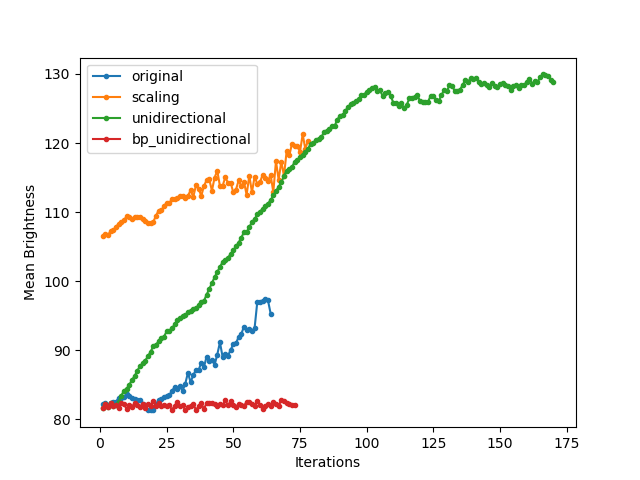
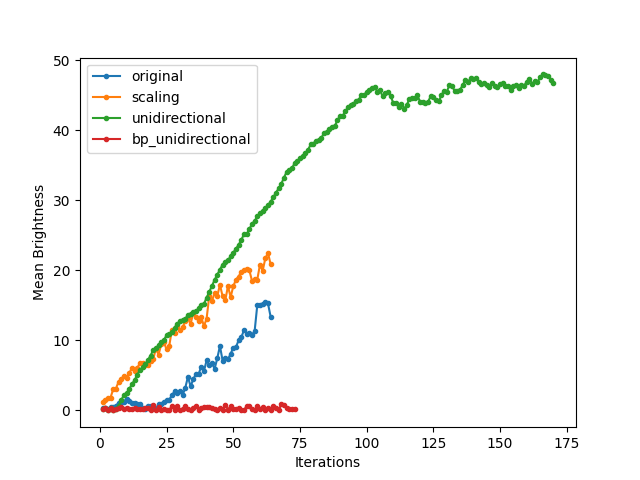
brief description on scaling

diff --git a/scaling_embed.py b/scaling_embed.py
@@ -8,8 +8,8 @@ from measure import Measure
 from shared import *
 
 
-def get_is_rounded(og, processed):
-    processed_pixels_temp = processed / (np.max(processed) / (original_max - original_min))
+def get_is_rounded(og, processed, factor):
+    processed_pixels_temp = processed / factor
     processed_pixels_temp += EPS
     processed_pixels_temp = np.floor(processed_pixels_temp)
     return processed_pixels_temp + original_min - og
@@ -30,9 +30,9 @@ def preprocess():
     processed_pixels -= EPS
     processed_pixels = np.ceil(processed_pixels)
 
-    mapped_values = get_mapped_values(shifted_max, scaled_max)
+    mapped_values = get_mapped_values(MAX_PIXEL_VALUE, scaled_max)
 
-    is_rounded = get_is_rounded(processed_pixels_og, processed_pixels)[np.in1d(processed_pixels, mapped_values)]
+    is_rounded = get_is_rounded(processed_pixels_og, processed_pixels, scale_factor)[np.in1d(processed_pixels, mapped_values)]
     is_rounded = is_rounded.astype(np.bool)
 
     processed_pixels = processed_pixels.astype(np.uint8)

diff --git a/shared.py b/shared.py
@@ -3,6 +3,8 @@ import lzma
 import PIL.Image as Image
 import numpy as np
 
+import matplotlib.pyplot as plt
+
 COMPRESSED_DATA_LENGTH_BITS = 16
 MAX_PIXEL_VALUE = 255
 COMPRESSION_LEVEL = 9
@@ -75,7 +77,7 @@ def decompress(compressed_data_bits):
 
 
 def get_header_and_body(image: np.ndarray, header_size=HEADER_SIZE) -> (np.ndarray, np.ndarray):
-    image = image.ravel()
+    image = image.ravel().copy()
     return image[:header_size], image[header_size:]
 
 
@@ -104,3 +106,14 @@ def read_image(path):
 def get_peaks(pixels, n=2):
     hist = np.bincount(pixels)
     return np.sort(hist.argsort()[-n:])
+
+
+def show_hist(image):
+    bins = np.bincount(image.ravel())
+    hist = np.zeros((MAX_PIXEL_VALUE + 1, ))
+    hist[:len(bins)] = bins
+    plt.figure()
+    plt.xlabel('Intensity Value')
+    plt.ylabel('Count')
+    plt.hist(np.arange(MAX_PIXEL_VALUE + 1), MAX_PIXEL_VALUE + 1, weights=hist)
+    plt.show()

diff --git a/stats.py b/stats.py
@@ -81,7 +81,7 @@ for rdh in RDH_ALGORITHMS:
             print(round(hidden_data_size / original_image.size, 3), 'bit/pixel')
             algorithm_rations.append(hidden_data_size / original_image.size)
             algorithm_stds.append(np.std(processed_image, dtype=np.float64))
-            algorithm_means.append(np.mean(processed_image, dtype=np.float64))
+            algorithm_means.append(np.abs(np.mean(original_image) - np.mean(processed_image, dtype=np.float64)))
             algorithm_ssids.append(structural_similarity(original_image, processed_image))
         else:
             print('extraction failed')

diff --git a/scaling_extract.py b/scaling_extract.py
@@ -59,10 +59,10 @@ def recover_image():
     processed_pixels = processed_pixels.astype(np.float64)
     processed_pixels -= iterations
     shifted_max = original_max - original_min
-    scaled_max = np.max(processed_pixels)
-    scale_factor = scaled_max / shifted_max
+    scaled_max = MAX_PIXEL_VALUE - 2 * iterations
+    scale_factor = scaled_max / MAX_PIXEL_VALUE
 
-    mapped_values = get_mapped_values(shifted_max, scaled_max)
+    mapped_values = get_mapped_values(MAX_PIXEL_VALUE, scaled_max)
     mapped_values = np.in1d(processed_pixels, mapped_values)
 
     processed_pixels /= scale_factor

diff --git a/original_embed.py b/original_embed.py
@@ -84,8 +84,8 @@ def write_image():
 
 def main():
     global header_pixels, processed_pixels, binary_data_index, binary_data, peaks
-    header_pixels = cover_image.ravel()[:16]
-    processed_pixels = cover_image.ravel()[16:]
+    header_pixels = cover_image.ravel()[:16].copy()
+    processed_pixels = cover_image.ravel()[16:].copy()
     binary_data_index = 0
     binary_data = []
     peaks = []

diff --git a/unidirection/configurations.py b/unidirection/configurations.py
@@ -8,7 +8,7 @@ LSB_BITS = 16
 PEAK_BITS = 8
 FLAG_BIT = 1
 DEFLATE_COMPRESSION_LEVEL = 12
-IMAGE_PATH = "res/gradient.png"
+IMAGE_PATH = "res/dataset-50/4.gif"
 BRIGHTNESS_THRESHOLD = 0.1
 
 

diff --git a/doc/scaling.md b/doc/scaling.md
@@ -1,0 +1,55 @@
+# Background
+The algorithm described in the original paper (Reversible Image Data Hiding with Contrast Enhancement) requires clearing the first and last L values from the histogram in the preprocessing step, where L is the number of pairs of histogram peaks split for data embedding. The paper resolves this by adding L to values in [0, L - 1] and [256 - L, 255] and keeping a map which tell us which pixels were modified so we can recover the original image in the extraction process and make it completely lossless.
+
+<img src="assets/markdown-img-paste-20210408122058182.png"/> <br />  
+
+Looking at the resulting image after preprocessing we can see that it causes distortion:   
+
+<img src="assets/markdown-img-paste-20210408123251387.png"/> <br />  
+
+If we look closely at the pixel values before and after preprocessing for a small segment of the image we can see what's causing this:  
+
+<img src="assets/markdown-img-paste-20210408124119839.png" width="500"/> <br />
+
+Values that are a little below L increase by L while values that are above stay the same which translates into really visible distortion in the image.
+
+# Solution
+Instead of adding and subtracting L from the pixel values to clear [0, L - 1] and [256 - L, 255], we can linearly scale the image to fit in [L, 255 - L].
+#### Main Algorithm
+1. Shift the image to the left by the minimum value in it.   
+  <img src="assets/markdown-img-paste-20210408125805754.png" width="500"/> <br />  
+
+1. Find the scale factor with the following formula:  
+  `scale_factor = (255 - 2 * L) / shifted_max`  
+  Where `shifted_max` is the maximum value in the image after shifting.  
+1. Multiply the image with the scaling factor and round the values up to the nearest integer.
+  <img src="assets/markdown-img-paste-2021040813090662.png" width="500"/> <br />  
+
+1. Now we have `2 * L` bins cleared from the upper part of the image. We want [0, L - 1] and [256 - L, 255] so we add L to the image to achieve that.
+  <img src="assets/markdown-img-paste-20210408131232873.png" width="500"/> <br />  
+
+#### Finding the Map
+We want to be able to recover the image losslessly so we have to keep a map that enables us to do that. This map is calculated by doing the following steps before adding L to image in the last step:
+1. Divide the image by the scale factor we calculated in step 2 earlier and round the values down to reverse the scaling operation.
+1. Some values won't be correctly recovered and we need the map to mark these pixels. We find the map by subtracting the partially recovered image from the original image. The result will tell us which pixels were not recovered correctly and in the extraction process we can use that map to recover the original image by adding each pixel to its corresponding value in the map.   
+
+As long as the scale factor is bigger than 0.5, the map will only have values between    [0, 1] so we can represent each pixel with only a single bit in the map while ensuring lossless recovery.  
+
+#### Reducing the Map Size
+Sometimes after partial recovery there are some values that are always correct and don't need the map to be correctly recovered. So, we can remove these values from the map to reduce its size and increase the embedding capacity.
+The process of finding these values will be demonstrated with the following example:  
+Consider we have a 4-bit image and L = 3.
+
+1. Create array G and fill it with all possible value in the image:  
+  [0,  1,  2,  3,  4,  5,  6,  7,  8,  9, 10, 11, 12, 13, 14, 15]
+
+1. Do the same steps explained earlier on G by multiplying G with the scale factor and rounding it up to get array P:  
+  [ 0,  1,  2,  2,  3,  4,  4,  5,  6,  6,  7,  8,  8,  9, 10, 10]
+1. Divide P by the scale factor and round it down to get array R:  
+  [ 0,  1,  3,  3,  4,  6,  6,  7,  9,  9, 10, 12, 12, 13, 15, 15]
+1. Subtract G from R which will tell us which values were not recovered correctly:  
+  [0, 0, 1, 0, 0, 1, 0, 0, 1, 0, 0, 1, 0, 0, 1, 0]
+1. Now we now that only the following values in P need a map to be recovered correctly:  
+  [ 2,  4,  6,  8, 10]
+
+Now the map has to only cover pixels with these values and the rest can be skipped. The same operation can be done the extraction process to know which values pixels are covered by the map.
